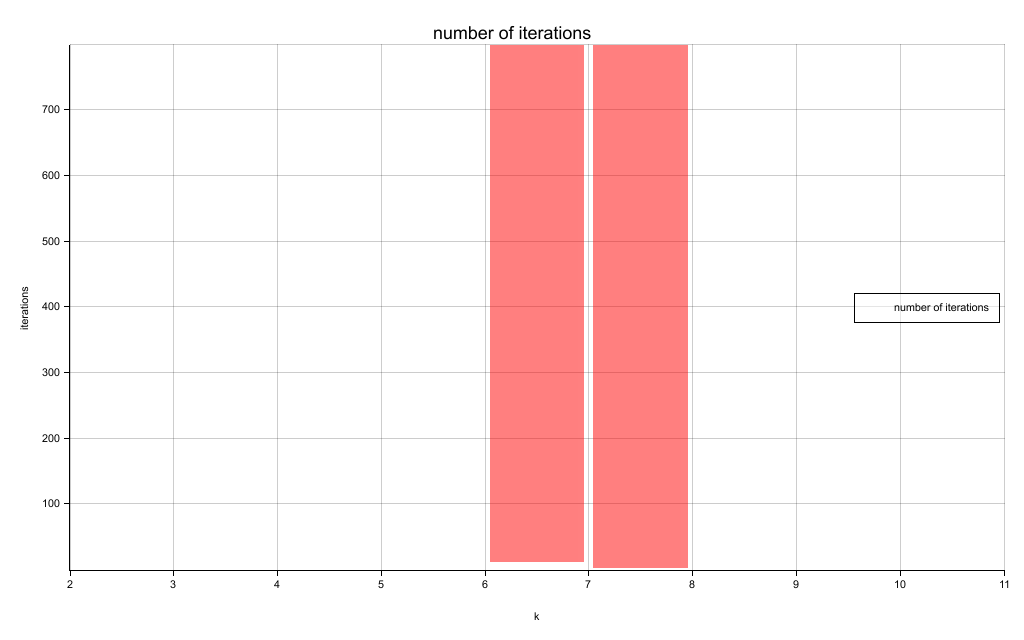
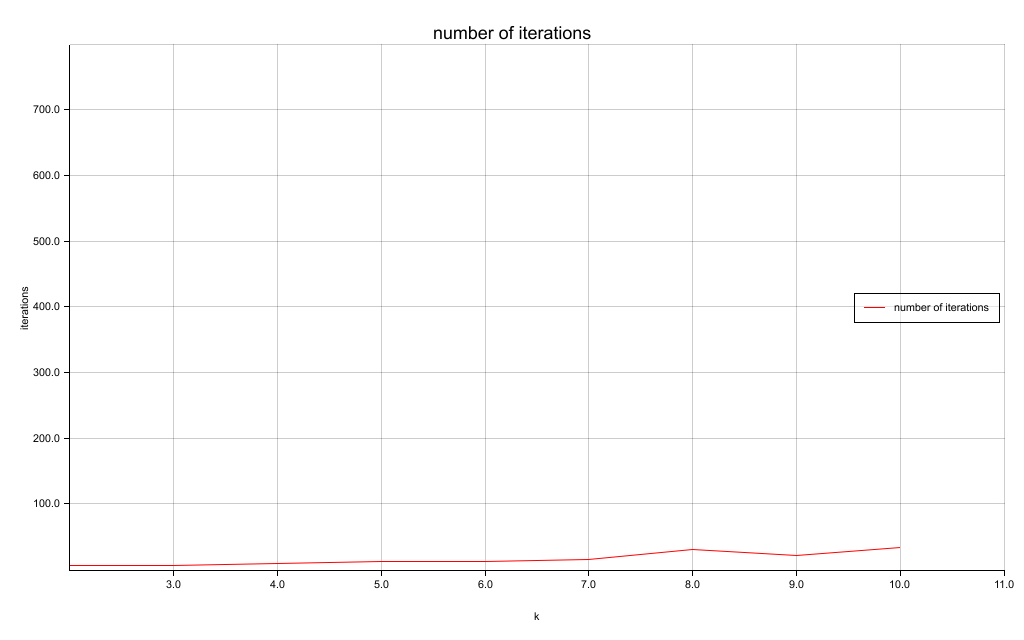
Add another benchmark for iteration count

diff --git a/benches/algorithm.rs b/benches/algorithm.rs
@@ -62,17 +62,15 @@ fn bench_c_grow_n(num_iter: u64, k: usize, p: f64, prog_style: &ProgressStyle) -
     times
 }
 
-fn count_iterations(num_iter: u64) -> Vec<Vec<f64>> {
+fn count_iterations(num_iter: u64, g: Graph) -> Vec<Vec<f64>> {
     let max_k = 10;
     let mut iterations = Vec::new();
 
     for _j in 0..num_iter {
         let mut iter = Vec::new();
         for k in 2..=max_k {
-            let g = utils::rand_graph(10, 0.3);
             let eps = 0.7;
-
-            let n = algorithm::c_count_iterations(g, k, eps);
+            let n = algorithm::c_count_iterations(g.clone(), k, eps);
             iter.push(n as f64);
             println!("k: {}, n: {}", k, n);
         }
@@ -87,12 +85,24 @@ fn main() {
         .template("[{elapsed_precise}] {bar:40.cyan/blue} {pos:>7}/{len:7} {msg}")
         .progress_chars("=>-");
 
-    let num_iterations = count_iterations(20);
-    let result = vec![(
-        "number of iterations".to_string(),
-        style::RED,
-        num_iterations,
-    )];
+    let g_rand = utils::rand_graph(20, 0.5);
+    let num_iterations_rand = count_iterations(1, g_rand);
+
+    let g_revolution = Graph::from_tsv("src/data/out.brunson_revolution_revolution");
+    let num_iterations_rev = count_iterations(1, g_revolution);
+
+    let result = vec![
+        (
+            "random graph (20 vertices, p = 0.5)".to_string(),
+            style::RED,
+            num_iterations_rand,
+        ),
+        (
+            "(real world) graph revolution".to_string(),
+            style::BLUE,
+            num_iterations_rev,
+        ),
+    ];
     let _ = utils::plot_results(
         "number of iterations",
         (("k", 2f32..11f32), ("iterations", 1f32..800f32)),

diff --git a/src/graph.rs b/src/graph.rs
@@ -17,7 +17,7 @@ use rand::{
     Rng,
 };
 
-#[derive(Debug)]
+#[derive(Debug, Clone)]
 pub struct Graph {
     adj_mat: Box<Matrix<u8>>,
     pub vert_data: Vec<usize>,
